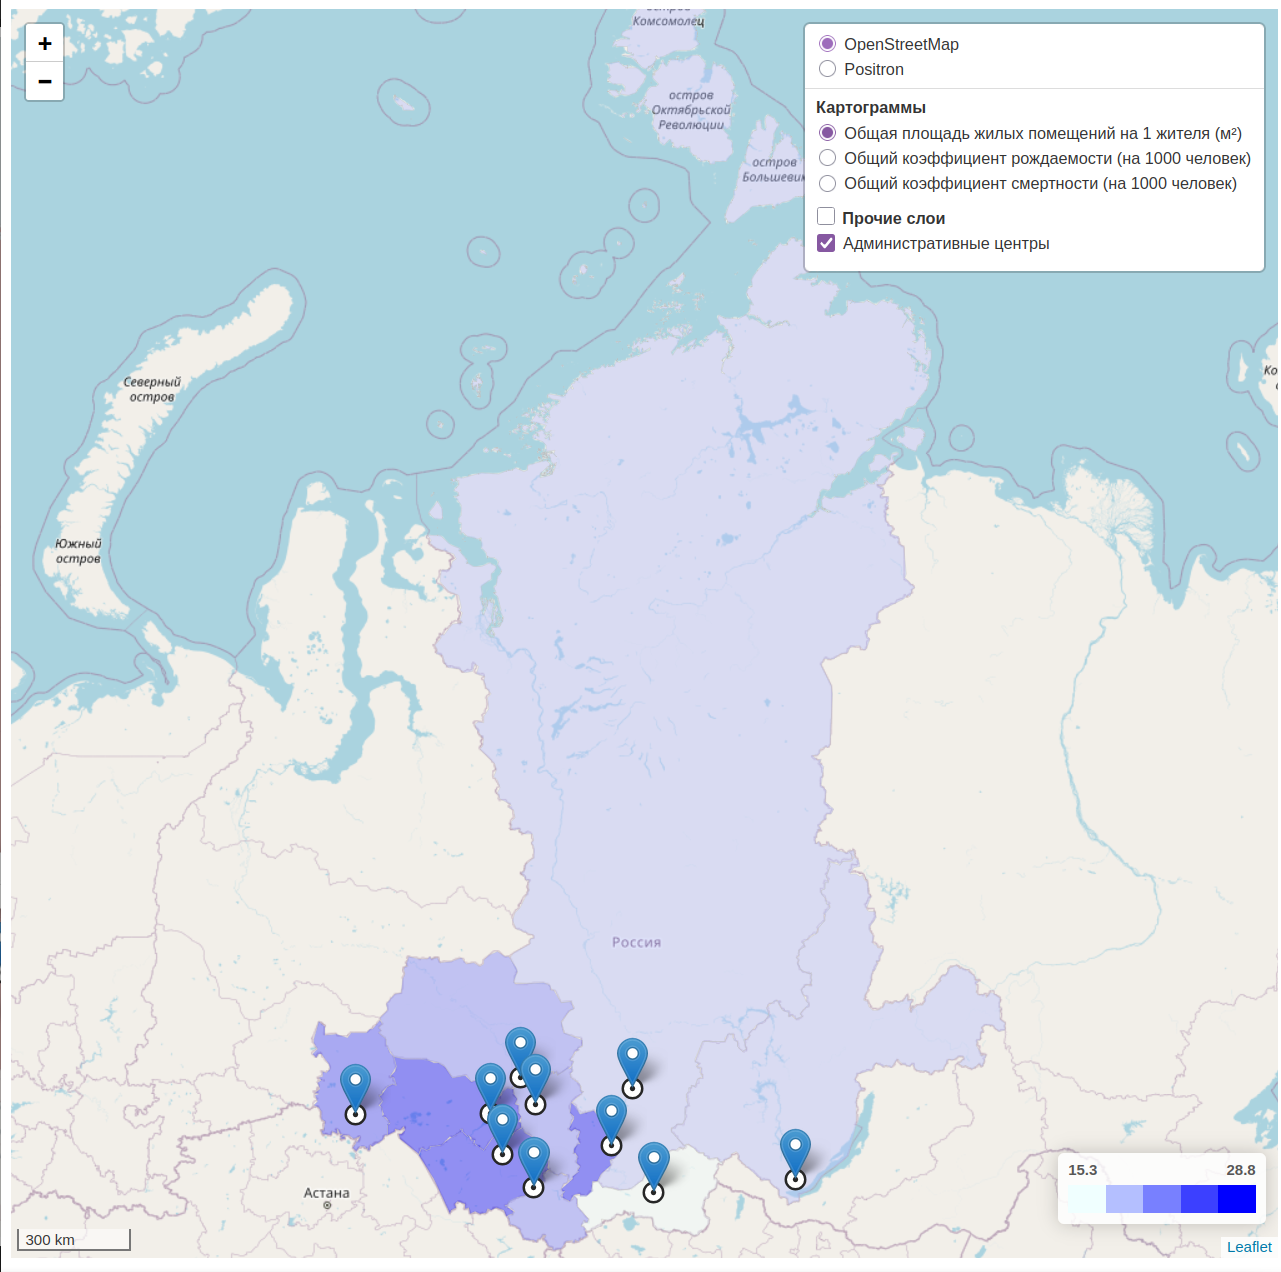
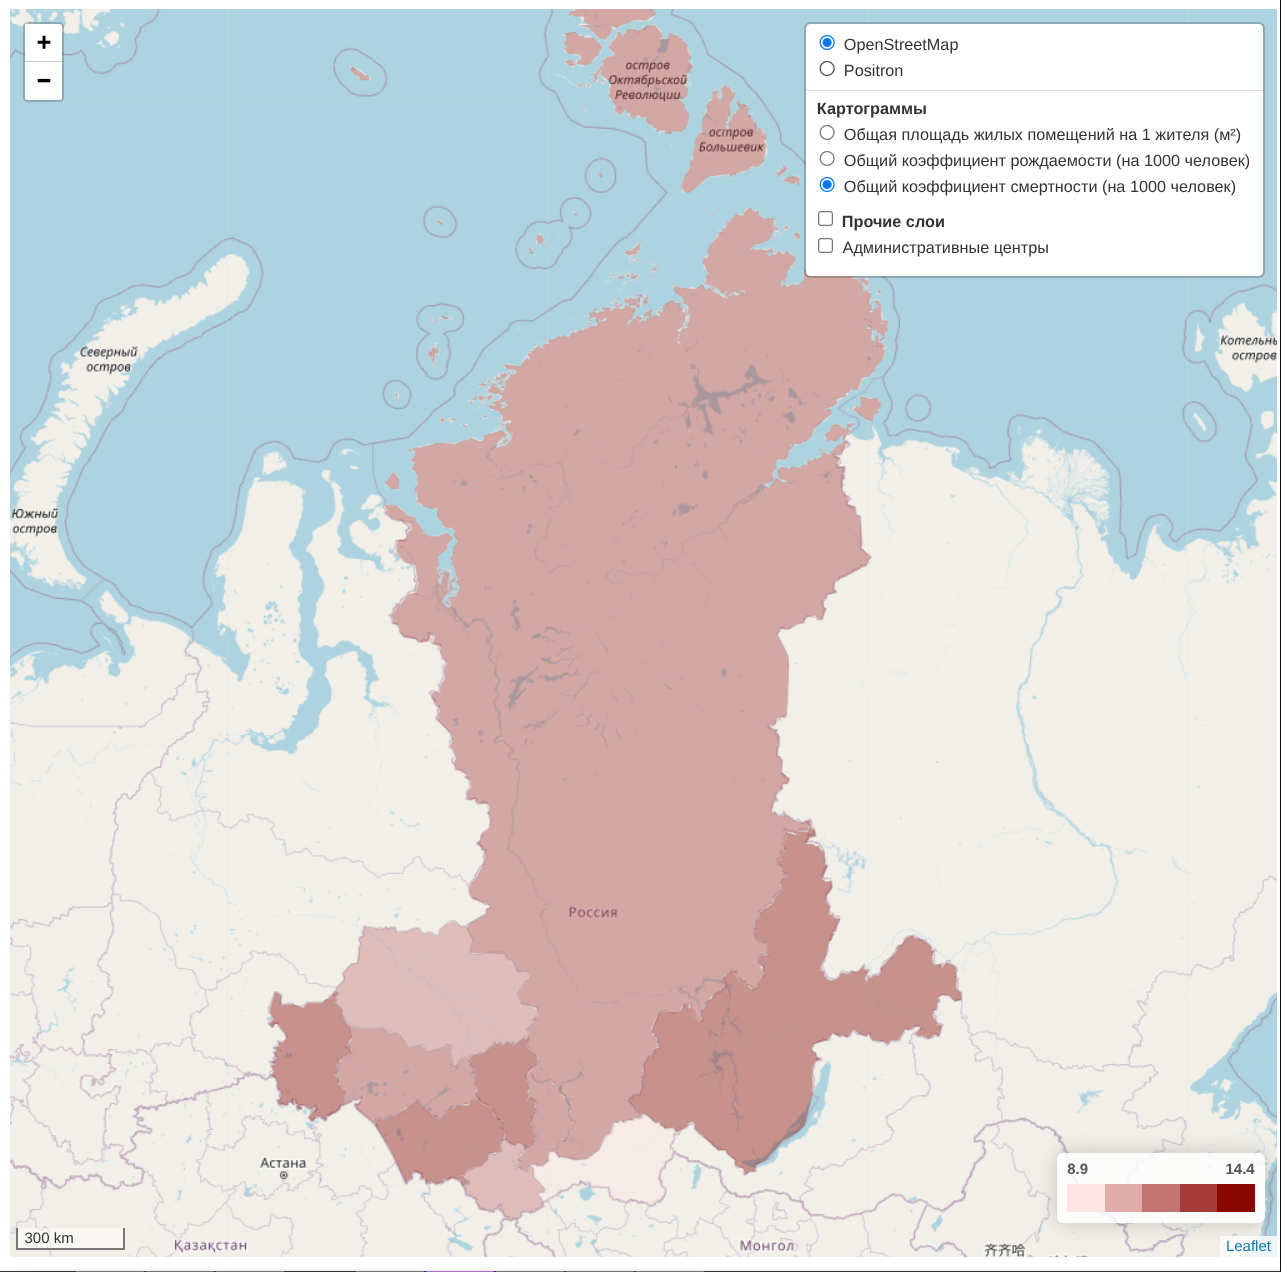
fix: resolve layer conflicts and update documentation

diff --git a/index.html b/index.html
@@ -210,9 +210,9 @@
 		const admin_centers = L.layerGroup();
 
 		// Create variable for storing svg icon
-		const svgAdm = `<svg width="20" height="20" viewBox="0 0 512 512" xmlns="http://www.w3.org/2000/svg">
-  		<circle fill="#ffffff" stroke="#262626" stroke-width="50" cx="256" cy="256" r="200"/>
-  		<ellipse fill="#262626" cx="256" cy="256" rx="54" ry="57"/>
+		const svgAdm = `<svg width="20" height="20" viewBox="0 0 20 20" xmlns="http://www.w3.org/2000/svg">
+    	<circle cx="10" cy="10" r="9" fill="#ffffff" stroke="#262626" stroke-width="1.5"/>
+    	<ellipse cx="10" cy="10" rx="4.5" ry="4.5" fill="#262626"/>
 		</svg>`;
 
 		// Create icon parameters
@@ -230,16 +230,7 @@
 				})
 				.addTo(admin_centers);
 		}
-
-		// Use a for loop to populate the thematic layer with markers featuring coordinates and popup names from the array
-		for (let i = 0; i < points.length; i++) {
-			const [lat, lng, popupText] = points[i];
-			marker = new L.marker([lat, lng]).bindPopup(popupText).addTo(admin_centers);
-		}
-
-		// Add the thematic layer of administrative centers to the map
-		admin_centers.addTo(map);
-
+		
 		// Define the list of choropleth layers
 		const groupedOverlays = {
 			"Картограммы": {
@@ -254,7 +245,7 @@
 
 		// Create grouping settings to display only one choropleth map at a time
 		const options = {
-			exclusiveGroups: ["Картограмма"],
+			exclusiveGroups: ["Картограммы"],
 			groupCheckboxes: true
 		};
 

diff --git a/README.md b/README.md
@@ -4,7 +4,12 @@
 
 ## Запуск
 
-Открыть `index.html` в любом браузере.
+Открыть `index.html` в любом браузере. 
+
+## Данные
+
+Статистические данные взяты из статистического сборника
+«Регионы России» за 2024 
 
 ## Скриншот
 
